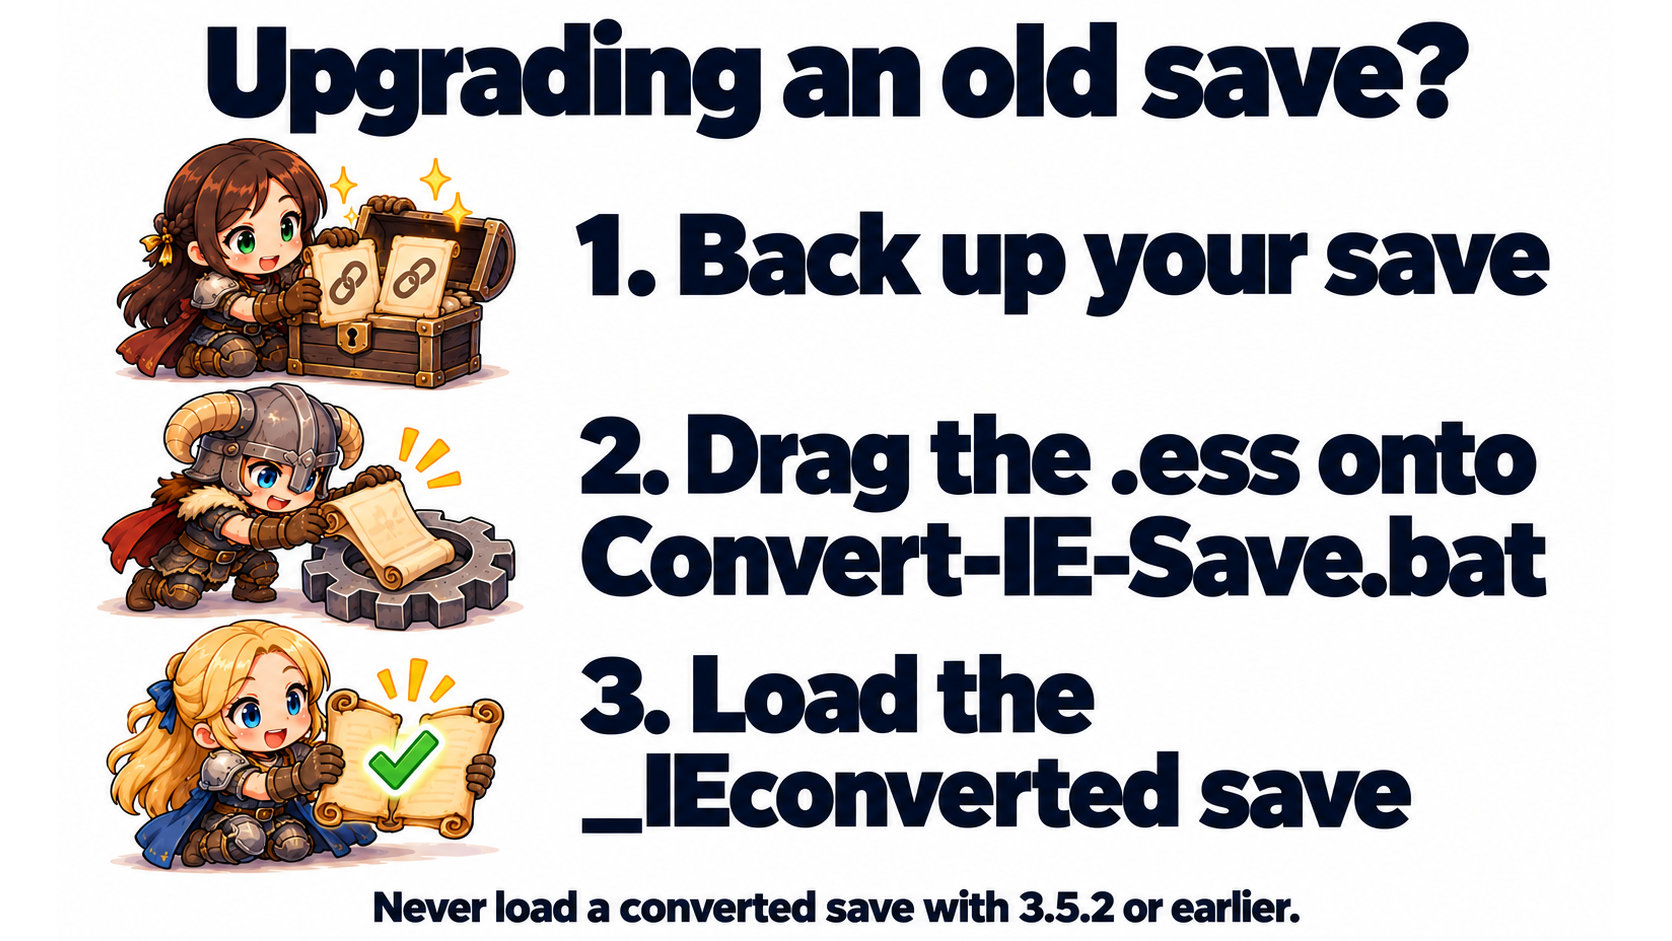
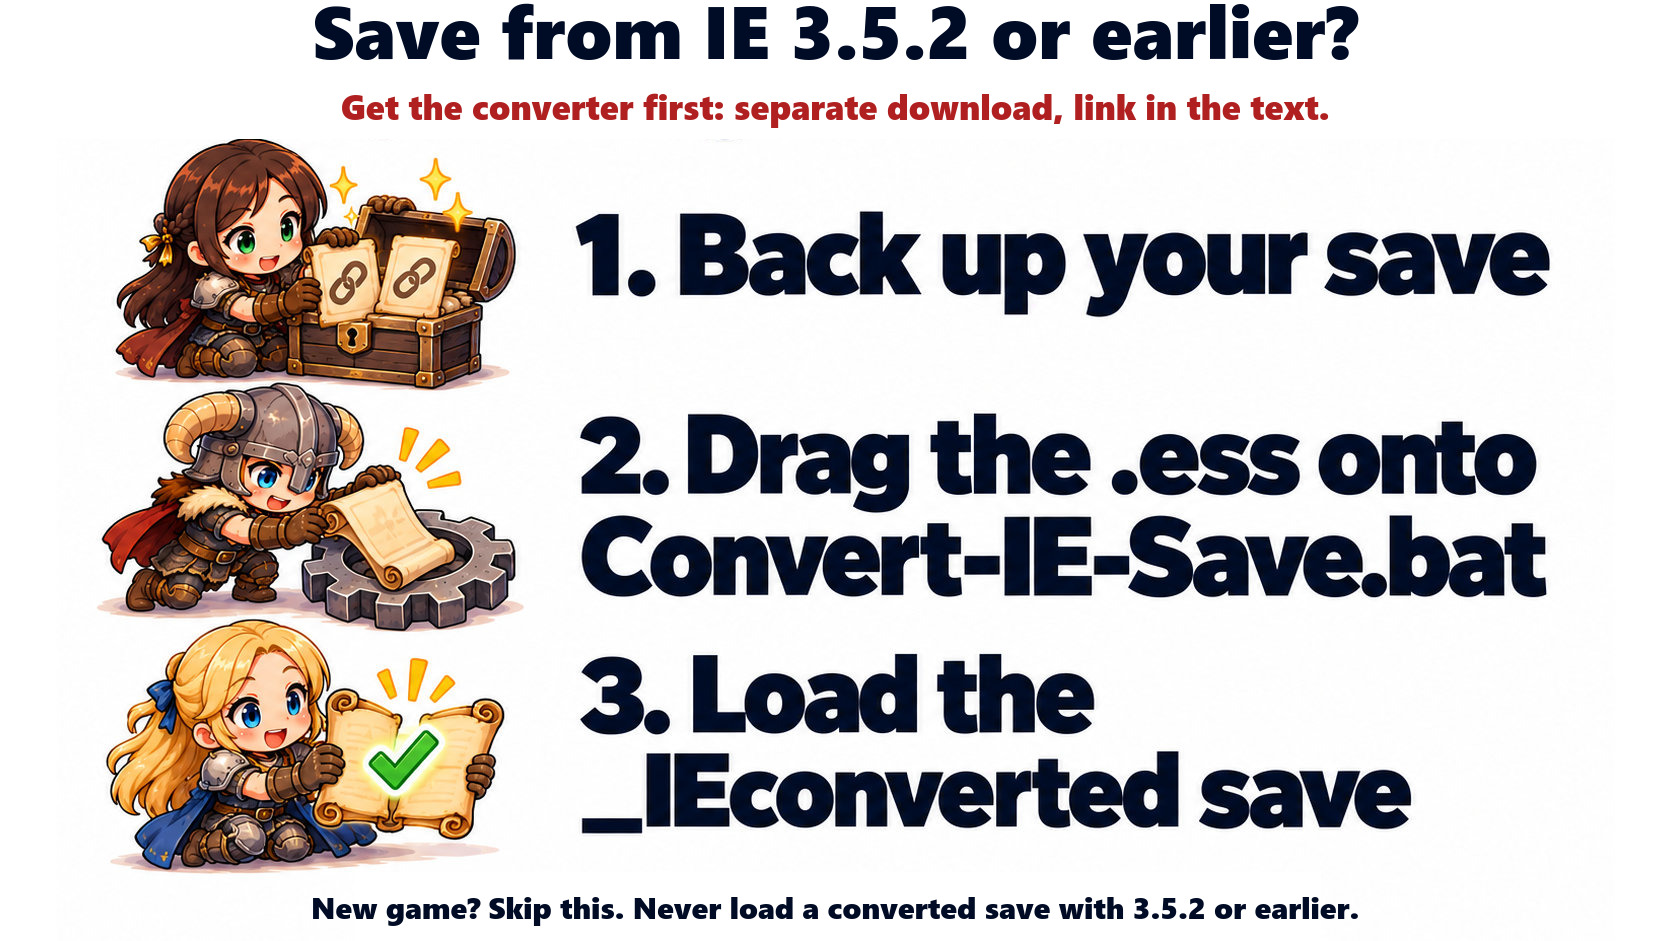
Converter image names the 3.5.2 cutoff and the separate download; FAQ line 5 no longer says the tools install for everyone

Changed region(s): [[0.1244, 0.0, 0.9019, 0.1541], [0.1866, 0.9245, 0.8086, 0.9862]]

diff --git a/FAQ.md b/FAQ.md
@@ -2,7 +2,7 @@
 
 By Galanx 3/2026
 
-> **New in 3.6.0:** convert before loading an old save with 3.6.0. The tools install for everyone; fresh games do not need conversion. Eligible SE/AE saves from IE 3.5.2 or earlier and VR 1.4.15 saves from VR-capable IE 3.5.1 or earlier are supported, with bounded real-fixture acceptance, not blanket old-save safety. See [IntelEngine 3.6.0 update](#intelengine-360-update) for instructions and limits.
+> **New in 3.6.0:** convert before loading an old save with 3.6.0. The converter is a [separate download](https://github.com/galanx/IntelEngine-GamePlugin/releases/tag/save-converter-1); fresh games do not need conversion. Eligible SE/AE saves from IE 3.5.2 or earlier and VR 1.4.15 saves from VR-capable IE 3.5.1 or earlier are supported, with bounded real-fixture acceptance, not blanket old-save safety. See [IntelEngine 3.6.0 update](#intelengine-360-update) for instructions and limits.
 
 **Q: The converter says “no conversion needed” and creates no files. What now?**
 If a valid co-save has a STRV record but no IntelEngine rendered-cache targets, `fix` leaves the originals unchanged and returns exit code **2** without creating a backup or converted pair. This result is not a repair or blanket old-save safety clearance. An absent STRV can instead produce a verified byte-identical copy (exit **0**).
